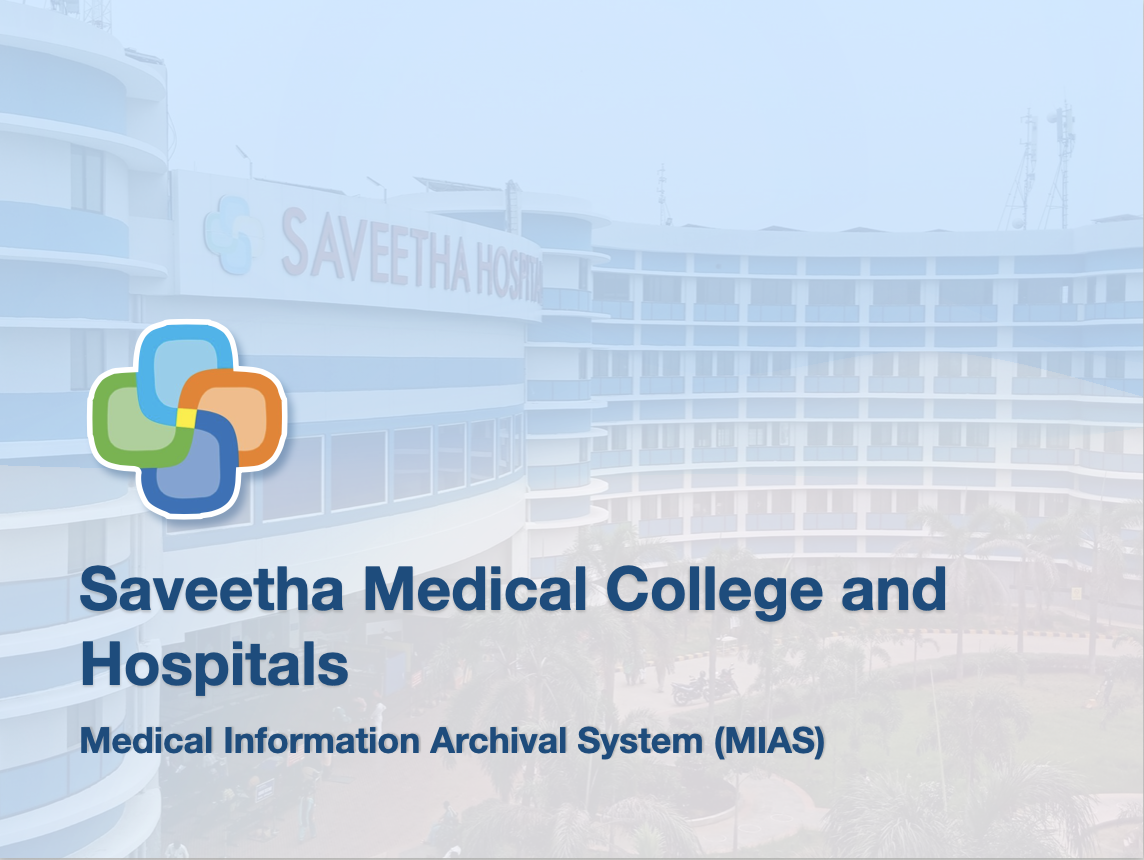
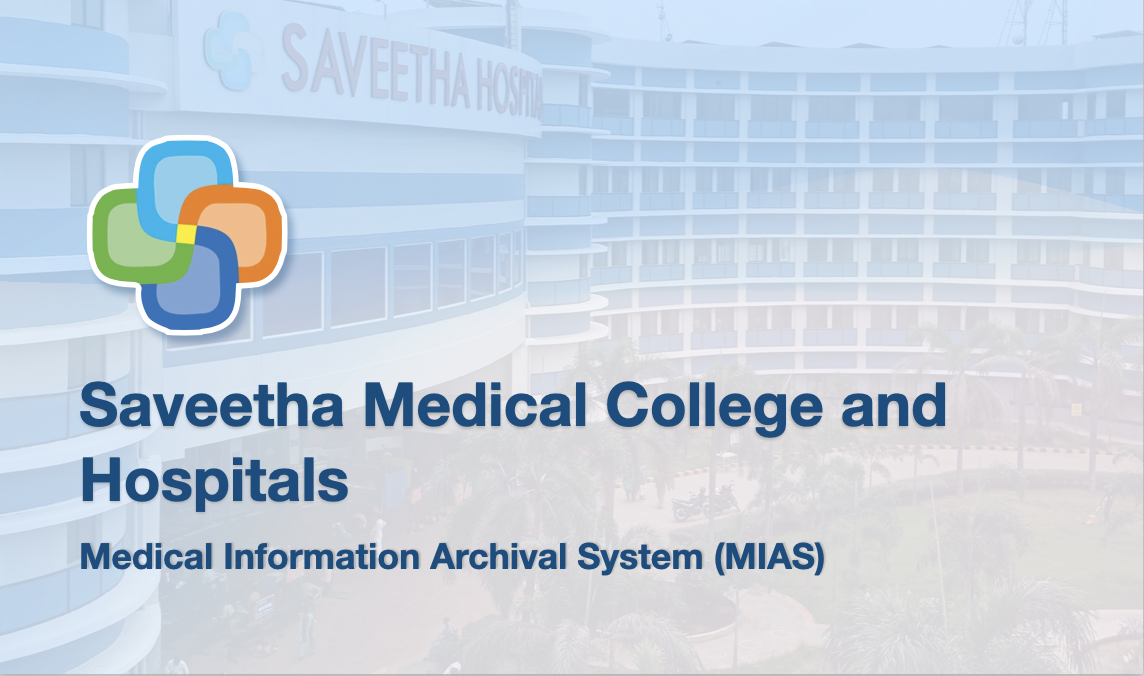
login page fixex

diff --git a/src/pages/Login.jsx b/src/pages/Login.jsx
@@ -14,11 +14,9 @@ const Login = () => {
     e.preventDefault();
     setError("");
 
-    // Simple validation
     if (username === "s" && password === "s") {
       alert("Logged in as student!");
       navigate("/student/dashboard");
-      // Here you can redirect or call a login API
     } else if (username === "t" && password === "t") {
       alert("Logged in as faculty!");
       navigate("/faculty/dashboard");
@@ -32,9 +30,9 @@ const Login = () => {
   };
 
   return (
-    <div className="flex flex-col min-h-screen bg-gray-100">
-      {/* Hero Image Section */}
-      <div className="relative h-80 sm:h-96 md:h-[32rem]  w-full">
+    <div className="min-h-screen flex flex-col bg-gray-100">
+      {/* Banner Section */}
+      <div className="relative w-full  flex-shrink-0 h-[35vh] sm:h-[40vh] md:h-[45vh] lg:h-[60vh]">
         <img
           src={Banner}
           alt="Saveetha Medical College and Hospitals"
@@ -42,17 +40,17 @@ const Login = () => {
         />
       </div>
 
-      {/* Login Form Section */}
-      <div className="flex-1 flex flex-col items-center justify-center px-4 -mt-12 sm:-mt-16 z-10">
+      {/* Form Section */}
+      <div className="flex-1 flex flex-col items-center justify-center px-4 sm:px-6 md:px-10 -mt-12 sm:-mt-20 z-10">
         <div className="w-full max-w-md bg-white rounded-xl shadow-lg overflow-hidden">
-          <div className="px-6 py-8 sm:px-8">
-            <h2 className="text-2xl sm:text-3xl font-semibold mb-6 text-center text-gray-800">
+          <div className="px-6 py-6 sm:px-6">
+            <h2 className="text-xl sm:text-2xl font-semibold mb-3 text-center text-gray-800">
               Medical Portal Login
             </h2>
 
             <form className="space-y-5" onSubmit={handleLoginSubmit}>
               {/* Username */}
-              <div className="flex items-center border border-gray-300 rounded-lg bg-gray-50 px-4 py-3 shadow-inner">
+              <div className="flex items-center border border-gray-300 rounded-lg bg-gray-50 px-4 py-2 shadow-inner">
                 <UserIcon className="h-5 w-5 text-gray-400 mr-3" />
                 <input
                   type="text"
@@ -65,7 +63,7 @@ const Login = () => {
               </div>
 
               {/* Password */}
-              <div className="flex items-center border border-gray-300 rounded-lg bg-gray-50 px-4 py-3 shadow-inner">
+              <div className="flex items-center border border-gray-300 rounded-lg bg-gray-50 px-4 py-2 shadow-inner">
                 <KeyIcon className="h-5 w-5 text-gray-400 mr-3" />
                 <input
                   type="password"
@@ -95,7 +93,7 @@ const Login = () => {
             </form>
 
             {/* Forgot Password */}
-            <div className="mt-5 text-center">
+            <div className="mt-2 text-center">
               <a
                 href="#"
                 className="text-sm text-blue-600 hover:text-blue-800 transition-colors"
@@ -106,8 +104,8 @@ const Login = () => {
           </div>
         </div>
 
-        {/* Footer / Support */}
-        <div className="mt-6 text-center text-sm text-gray-600 px-4">
+        {/* Footer */}
+        <div className="mt-4 text-center text-sm text-gray-600 px-4">
           <p>Need help? Contact hospital support at</p>
           <p className="font-medium">support@saveethamedical.com</p>
         </div>
